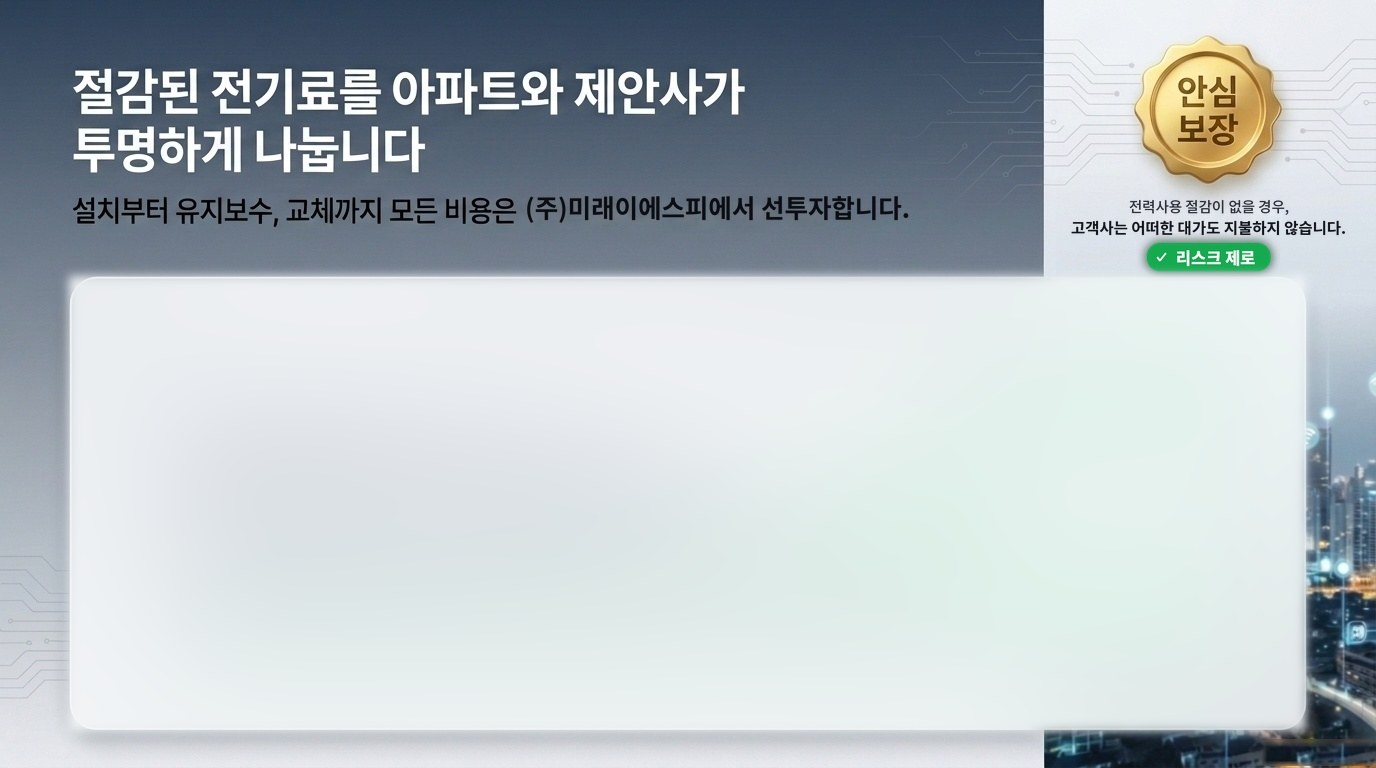
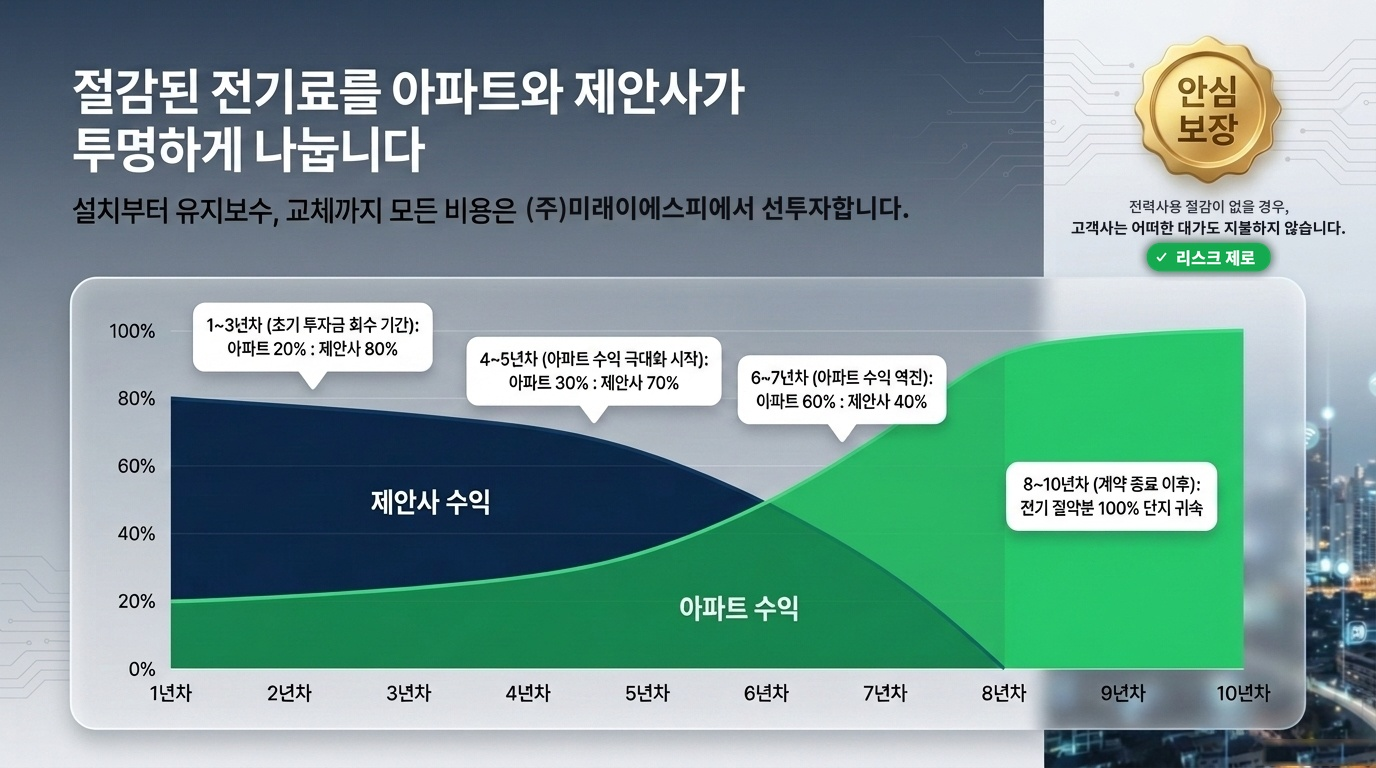
M-Carbon LED

diff --git a/server/excel.js b/server/excel.js
@@ -1,117 +1,62 @@
-// 절감 산출 엑셀 생성 (INPUT_DATA.xlsx 와 같은 배치, 수식 포함)
+// 절감 산출 엑셀 생성
+// 보내주신 INPUT_DATA.xlsx 원본을 그대로 열어 입력칸 값만 바꿉니다.
+// 배치·서식·문구·수식은 원본과 동일합니다. (운전일수·요금 상승률·교체주기는 원본 수식 속 숫자로 들어갑니다)
+const path = require("path");
 const ExcelJS = require("exceljs");
 const { compute } = require("../public/calc.js");
+
+const TEMPLATE = path.join(__dirname, "assets", "INPUT_DATA.xlsx");
+const num = (n) => String(+Number(n).toFixed(10)); // 수식에 넣을 숫자 표기
 
 async function buildExcel(v) {
   const r = compute(v);
   const wb = new ExcelJS.Workbook();
-  wb.creator = v.author || "M-Carbon";
-  wb.calcProperties.fullCalcOnLoad = true;
-  const ws = wb.addWorksheet("절감산출");
-  const widths = { A: 31.9, B: 26.1, C: 2.1, D: 2, E: 8.9, F: 14, G: 7, H: 7, I: 14.9, J: 13.9, K: 4, L: 11.8, M: 16 };
-  Object.entries(widths).forEach(([k, w]) => (ws.getColumn(k).width = w));
-  const YEL = "FFFFFF00", ORG = "FFFFC000", GRN = "FFE2EFDA", GRY = "FFF2F2F2", BLU = "FFDDEBF7", GRN2 = "FF92D050";
-  const NF = "#,##0", P = "0%";
-  const thin = { style: "thin", color: { argb: "FFBFBFBF" } }, border = { top: thin, left: thin, bottom: thin, right: thin };
-  const mk = (sheet) => (addr, val, o = {}) => {
-    const c = sheet.getCell(addr);
-    c.value = o.f !== undefined ? { formula: o.f, result: val } : val;
-    if (o.nf) c.numFmt = o.nf;
-    if (o.fill) c.fill = { type: "pattern", pattern: "solid", fgColor: { argb: o.fill } };
-    if (o.b) c.font = { bold: true, size: o.sz || 11 };
-    if (o.al) c.alignment = { horizontal: o.al, vertical: "middle" };
-    if (o.br !== false) c.border = border;
-    return c;
-  };
-  const put = mk(ws);
+  await wb.xlsx.readFile(TEMPLATE);
+  wb.calcProperties.fullCalcOnLoad = true; // 엑셀에서 열 때 다시 계산
+  const ws = wb.worksheets[0];
+  const val = (a, x) => { ws.getCell(a).value = x; };
+  const fx = (a, formula, result) => { ws.getCell(a).value = result === undefined ? { formula } : { formula, result }; };
 
-  put("A1", "전기사용량 비교", { b: true, br: false });
-  put("A2", "고객명", { fill: YEL }); put("B2", v.site, { fill: YEL });
-  put("A3", "소비전력[W]", { fill: YEL }); put("B3", v.w, { fill: YEL });
-  put("A4", "일일점등시간[시간]", { fill: YEL }); put("B4", v.hrs, { fill: YEL });
-  put("A5", "LED 등수", { fill: YEL }); put("B5", v.qty, { fill: YEL, nf: NF });
-  put("A6", "일 사용량[KW]"); put("B6", r.dayKw, { f: "B3*B4*B5/1000", nf: "#,##0.00" });
-  put("A7", "년간 전력사용량 [kWh]"); put("B7", r.useYr, { f: "B6*B10", nf: NF });
-  put("A8", "전기요금[원/KW]", { fill: YEL }); put("B8", v.price, { fill: YEL, nf: NF });
-  put("A9", "현재 기준 년간 전기요금", { fill: BLU }); put("B9", r.costYr, { f: "B7*B8", nf: NF, fill: BLU });
-  put("A10", "연간 운전일수[일]", { fill: YEL }); put("B10", v.days, { fill: YEL });
-  put("A11", "전기요금 연 상승률", { fill: YEL }); put("B11", v.esc / 100, { fill: YEL, nf: P });
-  put("A12", "절감율 산출", { fill: ORG, b: true }); put("B12", "", { fill: ORG });
-  put("A13", "현재 등 효율 [lm/W]", { fill: YEL }); put("B13", v.effOld, { fill: YEL });
-  put("A14", "M-Carbon 등 효율 [lm/W]", { fill: YEL }); put("B14", v.effNew, { fill: YEL });
-  put("A15", "Smart IoT추가 절감효율 [%]", { fill: ORG }); put("B15", v.iot / 100, { fill: ORG, nf: P });
-  put("A17", "에너지 Saving Ratio"); put("B17", r.ratio, { f: "(B14/B13)-1+B15", nf: "0.0%" });
-  put("A18", "연간 절감 전력 [kWh]"); put("B18", r.saveKwh, { f: "B7*B17", nf: NF });
-  put("A19", "연간 절감 요금 [원]", { fill: BLU }); put("B19", r.saveWon, { f: "B9*B17", nf: NF, fill: BLU });
-  put("A21", "추가시설비 단가", { fill: YEL }); put("B21", v.fac, { fill: YEL, nf: NF });
-  put("A22", "회수/10년 기준", { fill: YEL }); put("B22", v.facK, { fill: YEL, nf: NF });
-  put("A23", "투자비_LED단가적용(제품,시설 및 기타)"); put("B23", r.inv, { f: "B21*B5*B22", nf: NF, fill: GRN2 });
-  put("A25", "년차별 절감 예상", { b: true });
-  put("B25", `${v.esc}% 전기요금 상승 기준`, { f: 'TEXT(B11,"0%")&" 전기요금 상승 기준"' });
+  // ---- 입력칸 (원본 노란 칸 등) ----
+  val("B2", v.site);
+  val("B3", v.w);
+  val("B4", v.hrs);
+  val("B5", v.qty);
+  val("B8", v.price);
+  val("B13", v.effOld);
+  val("B14", v.effNew);
+  val("B15", v.iot / 100);
+  val("B21", v.fac);
+  val("B22", v.facK);
+  val("B41", v.ledP);
+  r.years.forEach((y, i) => val("H" + (4 + i), y.share));
+
+  // ---- 원본 수식 (값은 미리 계산해 넣어 미리보기에서도 보이게) ----
+  const g = 1 + v.esc / 100;
+  fx("B6", "B3*B4*B5/1000", r.dayKw);
+  fx("B7", `B6*${num(v.days)}`, r.useYr);
+  fx("B9", "B7*B8", r.costYr);
+  fx("B17", "(B14/B13)-1+B15", r.ratio);
+  fx("B18", "R4");                       // 원본 그대로 (R4는 빈 칸)
+  fx("B19", "B9*B17", r.saveWon);
+  fx("B23", "B21*B5*B22", r.inv);
+  val("B25", `${num(v.esc)}% 전기용금 상승 기준`);
   r.years.forEach((y, i) => {
     const row = 27 + i;
-    put("A" + row, y.y, { al: "center" });
-    put("B" + row, y.save, { f: i === 0 ? "B19" : `B${row - 1}*(1+$B$11)`, nf: NF });
+    fx("B" + row, i === 0 ? "B19" : `B${row - 1}*${num(g)}`, y.save);
   });
-  put("A39", "기존 조명 교체주기[년]", { fill: YEL }); put("B39", v.cyc, { fill: YEL });
-  put("A40", "제품 교체비용[매3년] 교체횟수"); put("B40", r.repN, { f: "ROUNDDOWN(8/B39,0)" });
-  put("A41", "led평균단가(제품+시설)", { fill: YEL }); put("B41", v.ledP, { fill: YEL, nf: NF });
-  put("A42", "건물주 추가투자비용 절감액"); put("B42", r.rep, { f: "B41*B40*B5", nf: NF });
-
-  put("E1", "성과공유", { b: true, br: false });
-  ws.mergeCells("F2:F3"); ws.mergeCells("G2:H2"); ws.mergeCells("I2:J2");
-  put("E2", "년", { fill: GRN, b: true, al: "center" }); put("F2", "운영수익", { fill: GRN, b: true, al: "center" });
-  put("G2", "비율정의", { fill: GRY, b: true, al: "center" }); put("I2", "수익", { fill: GRN, b: true, al: "center" });
-  put("E3", "수익자", { fill: GRN, al: "center" }); put("G3", "운영사", { fill: GRY, al: "center" }); put("H3", "건물", { fill: GRY, al: "center" });
-  put("I3", "운영사", { fill: GRN, al: "center" }); put("J3", "건물", { fill: GRN, al: "center" });
+  fx("B40", `ROUNDDOWN((8/${num(v.cyc)}),0)`, r.repN);
+  fx("B42", "B41*B40*B5", r.rep);
   r.years.forEach((y, i) => {
     const row = 4 + i;
-    put("E" + row, y.y, { al: "center" });
-    put("F" + row, y.save, { f: "B" + (27 + i), nf: NF });
-    put("G" + row, 1 - y.share, { f: `1-H${row}`, nf: P, fill: GRY });
-    put("H" + row, y.share, { nf: P, fill: YEL });
-    put("I" + row, y.op, { f: `$F${row}*G${row}`, nf: NF });
-    put("J" + row, y.apt, { f: `$F${row}*H${row}`, nf: NF });
+    fx("F" + row, "B" + (27 + i), y.save);
+    fx("G" + row, `1-H${row}`, 1 - y.share);
+    fx("I" + row, `$F${row}*G${row}`, y.op);
+    fx("J" + row, `$F${row}*H${row}`, y.apt);
   });
-  ws.mergeCells("E14:I14"); put("E14", "건물주 추가투지비용 절감액"); put("J14", r.rep, { f: "B42", nf: NF });
-  ws.mergeCells("E15:H15"); put("E15", "총계", { b: true, al: "center" });
-  put("I15", r.opTot, { f: "SUM(I4:I13)", nf: NF, b: true }); put("J15", r.netTot, { f: "SUM(J4:J14)", nf: NF, b: true });
-  put("L2", "", { fill: YEL }); put("M2", "input information", { br: false });
-  put("L3", "", { fill: ORG }); put("M3", "Calculated", { br: false });
-  put("E18", "작성일", { fill: GRY }); ws.mergeCells("F18:G18"); put("F18", v.date);
-  put("E19", "작성자", { fill: GRY }); ws.mergeCells("F19:G19"); put("F19", v.author);
-  put("E20", "수신", { fill: GRY }); ws.mergeCells("F20:J20"); put("F20", `${v.site} ${v.to}`.trim());
-
-  const s2 = wb.addWorksheet("10년 시뮬레이션");
-  [30, 18, 12, 18, 18, 18].forEach((w, i) => (s2.getColumn(i + 1).width = w));
-  const p2 = mk(s2), S = "'절감산출'!";
-  s2.mergeCells("A1:F1"); p2("A1", `${v.site} 10년 누적 절감 시뮬레이션`, { b: true, sz: 14, br: false });
-  ["년차", "전기요금 절감액", "아파트 비율", "아파트 수익", "제안사 수익", "아파트 누적"].forEach((h, i) =>
-    p2(String.fromCharCode(65 + i) + "3", h, { b: true, fill: GRN, al: "center" }));
-  r.years.forEach((y, i) => {
-    const row = 4 + i;
-    p2("A" + row, y.y, { al: "center" }); p2("B" + row, y.save, { f: S + "F" + row, nf: NF });
-    p2("C" + row, y.share, { f: S + "H" + row, nf: P });
-    p2("D" + row, y.apt, { f: S + "J" + row, nf: NF }); p2("E" + row, y.op, { f: S + "I" + row, nf: NF });
-    p2("F" + row, y.acc, { f: i === 0 ? "D4" : `F${row - 1}+D${row}`, nf: NF });
-  });
-  p2("A14", "합계", { b: true, al: "center" }); p2("B14", r.saveTot, { f: "SUM(B4:B13)", nf: NF, b: true }); p2("C14", "");
-  p2("D14", r.aptTot, { f: "SUM(D4:D13)", nf: NF, b: true }); p2("E14", r.opTot, { f: "SUM(E4:E13)", nf: NF, b: true }); p2("F14", "");
-  const kv = [
-    ["건물주 추가투자비용 절감액", r.rep, { f: S + "J14", nf: NF }],
-    ["아파트 10년 누적 순수익", r.netTot, { f: "D14+B16", nf: NF, b: true, fill: GRN }],
-    null,
-    ["연간 전력 절감량 [kWh]", r.saveKwh, { f: S + "B18", nf: NF }],
-    ["전력 배출계수 [kgCO2/kWh]", v.ef, { fill: YEL, nf: "0.0000" }],
-    ["연간 CO2 감축량 [tCO2]", r.co2, { f: "B19*B20/1000", nf: "#,##0.0" }],
-    ["10년 누적 CO2 감축량 [tCO2]", r.co2 * 10, { f: "B21*10", nf: "#,##0.0", b: true }],
-    ["소나무 1그루 연간 흡수량 [kg]", v.tree, { fill: YEL }],
-    ["30년생 소나무 환산 [그루]", r.trees, { f: "IF(B23>0,B21*1000/B23,0)", nf: NF }],
-    ["소나무 숲 1ha 연간 흡수량 [t]", v.forest, { fill: YEL }],
-    ["소나무 숲 면적 [ha]", r.ha, { f: "IF(B25>0,B21/B25,0)", nf: "0.00" }],
-    ["축구장 환산 [개] (1개=0.714ha)", r.pitch, { f: "B26/0.714", nf: "0.0" }],
-  ];
-  kv.forEach((e, i) => { if (!e) return; const row = 16 + i; p2("A" + row, e[0], { fill: e[2].fill === GRN ? GRN : undefined }); p2("B" + row, e[1], e[2]); });
+  fx("J14", "B42", r.rep);
+  fx("I15", "SUM(I4:I13)", r.opTot);
+  fx("J15", "SUM(J4:J14)", r.netTot);
 
   return Buffer.from(await wb.xlsx.writeBuffer());
 }

diff --git a/server/pptx.js b/server/pptx.js
@@ -22,15 +22,6 @@ function fit(text, maxW_px, maxPt, minPt = 10) {
   const pt = (maxW_px * PX * 72) / (em || 1);
   return Math.max(minPt, Math.min(maxPt, Math.floor(pt * 0.98)));
 }
-function groupShares(r) {
-  const g = [];
-  r.years.forEach((y) => {
-    const k = Math.round(y.share * 1000), L = g[g.length - 1];
-    if (L && L.k === k) L.b = y.y; else g.push({ k, a: y.y, b: y.y, share: y.share });
-  });
-  return g;
-}
-
 async function buildPptx(v) {
   const r = compute(v);
   const site = v.site;
@@ -51,28 +42,9 @@ async function buildPptx(v) {
   T(s, rc, { x: px(560), y: px(588), w: px(660), h: px(44), fontSize: fit(rc, 660, 15, 10), bold: true, color: "1B2740", align: "right" });
   ["s02", "s03", "s04"].forEach(bgSlide);
 
-  // 5. 성과공유
-  s = bgSlide("s05");
-  const groups = groupShares(r);
-  const n = groups.length, gx0 = 95, gx1 = 1285, gw = (gx1 - gx0) / n;
-  groups.forEach((g, i) => {
-    const yrs = g.a === g.b ? `${g.a}년차` : `${g.a}~${g.b}년차`;
-    const body = g.share >= 1 ? `${yrs} (계약 종료 이후)\n전기 절약분 100% 단지 귀속`
-      : `${yrs}\n아파트 ${Math.round(g.share * 100)}% : 제안사 ${Math.round((1 - g.share) * 100)}%`;
-    s.addShape(pptx.ShapeType.roundRect, { x: px(gx0 + i * gw + 6), y: px(292), w: px(gw - 12), h: px(58), rectRadius: 0.08,
-      fill: { color: g.share >= 1 ? "E8F8EE" : "FFFFFF" }, line: { color: g.share >= 1 ? "22C55E" : "C9D3DD", width: 1 },
-      shadow: { type: "outer", blur: 4, offset: 1, angle: 90, color: "000000", opacity: 0.12 } });
-    T(s, body, { x: px(gx0 + i * gw + 10), y: px(294), w: px(gw - 20), h: px(54), fontSize: n > 5 ? 9 : 11, color: "1B2740", align: "center", lineSpacingMultiple: 1.05 });
-  });
+  // 5. 성과공유 — 원본 슬라이드 그대로
+  bgSlide("s05");
   const labels = r.years.map((y) => y.y + "년차");
-  s.addChart(pptx.ChartType.bar, [
-    { name: "아파트 수익", labels, values: r.years.map((y) => Math.round(y.share * 100)) },
-    { name: "제안사 수익", labels, values: r.years.map((y) => 100 - Math.round(y.share * 100)) }],
-    { x: px(85), y: px(358), w: px(1205), h: px(365), barDir: "col", barGrouping: "percentStacked", barGapWidthPct: 45,
-      chartColors: ["22C55E", "10264A"], showValue: true, dataLabelFormatCode: '0"%";;', dataLabelColor: "FFFFFF", dataLabelFontSize: 11, dataLabelFontBold: true, dataLabelFontFace: FONT,
-      catAxisLabelColor: "1B2740", catAxisLabelFontSize: 11, catAxisLabelFontFace: FONT, valAxisLabelFontSize: 10, valAxisLabelColor: "5D6E78",
-      valAxisLabelFormatCode: "0%", valGridLine: { color: "DDE3E8", size: 0.5 }, catGridLine: { style: "none" },
-      showLegend: true, legendPos: "t", legendFontSize: 11, legendFontFace: FONT, legendColor: "1B2740" });
 
   // 6. 10년 누적 절감 시뮬레이션
   s = bgSlide("s06");
@@ -93,12 +65,19 @@ async function buildPptx(v) {
       showValue: true, dataLabelFormatCode: '"약 "#,##0"만 원"', dataLabelColor: "FFFFFF", dataLabelFontSize: 8.5, dataLabelFontBold: true, dataLabelFontFace: FONT, dataLabelPosition: "outEnd",
       catAxisLabelColor: "FFFFFF", catAxisLabelFontSize: 11, catAxisLabelFontFace: FONT, catAxisLineShow: true, catAxisLineColor: "5B6B66",
       valAxisHidden: true, valGridLine: { style: "none" }, catGridLine: { style: "none" }, showLegend: false });
+  // 원본 표기 방식: 전력 절감량은 천 kWh 단위 반올림, CO₂는 소수 첫째 자리, 소나무는 10그루 단위
+  const kwhR = Math.round(r.saveKwh / 1000) * 1000;
+  const co2R = Math.round(r.co2 * 10) / 10;
+  const treesR = v.tree > 0 ? Math.floor(co2R * 1000 / v.tree / 10) * 10 : 0;
+  const haR = v.forest > 0 ? Math.round(co2R / v.forest * 10) / 10 : 0;
+  const pitchR = Math.round(haR * 1.3 * 10) / 10;   // 원본: 1ha ≈ 축구장 1.3개
+  const nf = (n) => n.toLocaleString("ko-KR", { maximumFractionDigits: 1 });
   const X0 = 922, W0 = 410;
   s.addShape(pptx.ShapeType.roundRect, { x: px(X0), y: px(192), w: px(W0), h: px(512), rectRadius: 0.15, fill: { color: "0B1A14", transparency: 30 }, line: { color: "3DDC84", width: 1.5, transparency: 20 } });
   s.addShape(pptx.ShapeType.ellipse, { x: px(X0 + 22), y: px(210), w: px(30), h: px(30), fill: { color: "3DDC84" }, line: { type: "none" } });
   T(s, "CO₂", { x: px(X0 + 22), y: px(210), w: px(30), h: px(30), fontSize: 7, bold: true, color: "0B1A14", align: "center" });
   T(s, "탄소배출 절감 효과", { x: px(X0 + 62), y: px(208), w: px(320), h: px(34), fontSize: 16, bold: true, color: "FFFFFF" });
-  T(s, `전력 절감 → 온실가스 감축 환산 (연간 약 ${f0(r.saveKwh)}kWh 절감 기준)`, { x: px(X0 + 20), y: px(244), w: px(W0 - 40), h: px(18), fontSize: 7.5, color: "A9B8B1" });
+  T(s, `전력 절감 → 온실가스 감축 환산 (연간 약 ${f0(kwhR)}kWh 절감 기준)`, { x: px(X0 + 20), y: px(244), w: px(W0 - 40), h: px(18), fontSize: 7.5, color: "A9B8B1" });
   const rowBox = (y, h, label, val, unit, hi) => {
     s.addShape(pptx.ShapeType.roundRect, { x: px(X0 + 18), y: px(y), w: px(W0 - 36), h: px(h), rectRadius: 0.1,
       fill: { color: hi ? "0F3A26" : "FFFFFF", transparency: hi ? 10 : 92 }, line: { color: hi ? "3DDC84" : "FFFFFF", transparency: hi ? 0 : 80, width: hi ? 1.5 : 0.75 } });
@@ -112,21 +91,20 @@ async function buildPptx(v) {
         { x: px(X0 + 170), y: px(y), w: px(W0 - 206), h: px(h), fontFace: FONT, color: "FFFFFF", align: "right", valign: "middle", margin: 0 });
     }
   };
-  rowBox(270, 52, "연간 전력 절감량", f0(r.saveKwh), "kWh");
-  rowBox(330, 52, "연간 CO₂ 감축량", f1(r.co2), "tCO₂");
-  rowBox(392, 78, "10년 누적 CO₂ 감축량", f0(r.co2 * 10), "tCO₂", true);
+  rowBox(270, 52, "연간 전력 절감량", f0(kwhR), "kWh");
+  rowBox(330, 52, "연간 CO₂ 감축량", f1(co2R), "tCO₂");
+  rowBox(392, 78, "10년 누적 CO₂ 감축량", nf(co2R * 10), "tCO₂", true);
   T(s, "나무심기 환산 효과", { x: px(X0 + 22), y: px(480), w: px(300), h: px(22), fontSize: 11, bold: true, color: "FFFFFF" });
   for (let i = 0; i < 9; i++) {
     const tx = X0 + 30 + i * 39.5;
     s.addShape(pptx.ShapeType.triangle, { x: px(tx), y: px(507), w: px(32), h: px(30), fill: { color: "2FBF6A" }, line: { type: "none" } });
     s.addShape(pptx.ShapeType.rect, { x: px(tx + 13), y: px(537), w: px(6), h: px(8), fill: { color: "7A5A3A" }, line: { type: "none" } });
   }
-  T(s, `30년생 소나무 약 ${f0(r.trees)}그루`, { x: px(X0), y: px(552), w: px(W0), h: px(32), fontSize: 18, bold: true, color: "3DDC84", align: "center" });
+  T(s, `30년생 소나무 약 ${f0(treesR)}그루`, { x: px(X0), y: px(552), w: px(W0), h: px(32), fontSize: 18, bold: true, color: "3DDC84", align: "center" });
   T(s, "가 1년 동안 흡수하는 CO₂를 매년 줄이는 효과", { x: px(X0), y: px(584), w: px(W0), h: px(18), fontSize: 9, color: "C9D6CF", align: "center" });
   s.addShape(pptx.ShapeType.line, { x: px(X0 + 30), y: px(608), w: px(W0 - 60), h: 0, line: { color: "FFFFFF", transparency: 75, width: 0.75 } });
-  const haTxt = r.ha >= 10 ? f0(r.ha) : r.ha >= 1 ? f1(r.ha).replace(/\.0$/, "") : r.ha.toFixed(2);
-  T(s, `= 소나무 숲 약 ${haTxt}ha (축구장 약 ${f1(r.pitch).replace(/\.0$/, "")}개) 조성 효과`, { x: px(X0), y: px(614), w: px(W0), h: px(24), fontSize: 11, bold: true, color: "FFFFFF", align: "center" });
-  T(s, `* 산출 기준: 국가 전력 배출계수 ${v.ef} kgCO₂/kWh,\n  30년생 소나무 1그루 연 ${v.tree}kg CO₂ 흡수(국립산림과학원), 소나무 숲 1ha 연 ${v.forest}t`,
+  T(s, `= 소나무 숲 약 ${nf(haR)}ha (축구장 약 ${nf(pitchR)}개) 조성 효과`, { x: px(X0), y: px(614), w: px(W0), h: px(24), fontSize: 11, bold: true, color: "FFFFFF", align: "center" });
+  T(s, `* 산출 기준: 국가 전력 배출계수 ${v.ef} tCO₂eq/MWh,\n  30년생 소나무 1그루 연 ${v.tree}kg CO₂ 흡수(국립산림과학원), 소나무 숲 1ha 연 ${v.forest}t`,
     { x: px(X0 + 22), y: px(645), w: px(W0 - 40), h: px(46), fontSize: 7, color: "A9B8B1", valign: "top" });
   T(s, "*상기 시뮬레이션은 제안 단가의 기준치를 적용한 예시이며, 실제 전력사용량 및 현장 상황에 따라 1원 단위로 투명하게 정산됩니다.*",
     { x: px(0), y: px(718), w: px(1376), h: px(30), fontSize: 10.5, color: "A9B3B0", align: "center" });
@@ -134,7 +112,7 @@ async function buildPptx(v) {
   ["s07", "s08", "s09"].forEach(bgSlide);
   // 10. 무상 양도
   s = bgSlide("s10");
-  T(s, `${r.contract}년 계약 종료 시, 어떠한 추가 비용 요구나 철거 없이 설치된 최첨단 IoT LED 조명 자산 일체를 ${site}에 100% 무상 양도합니다.`,
+  T(s, `7년 계약 종료 시, 어떠한 추가 비용 요구나 철거 없이 설치된 최첨단 IoT LED 조명 자산 일체를 ${site}에 100% 무상 양도합니다.`,
     { x: px(842), y: px(208), w: px(420), h: px(90), fontSize: 11, color: "1F2937", valign: "top", lineSpacingMultiple: 1.2 });
   bgSlide("s11");
   // 12. 마무리

diff --git a/public/style.css b/public/style.css
@@ -236,3 +236,16 @@ table.list td small{display:block;color:var(--muted);font-size:11px}
 .st.disabled{background:var(--field);color:var(--muted)}
 .empty{color:var(--muted);text-align:center;padding:24px;margin:0}
 @media (max-width:520px){.tabpane{padding:18px 16px}.nav{padding:8px 10px}.nav .who{width:100%;justify-content:flex-end}}
+
+/* 다크 모드: 진한 초록 글자를 밝게 (가독성) */
+@media (prefers-color-scheme: dark){
+  :root:not([data-theme="light"]) .c10 .v,
+  :root:not([data-theme="light"]) .gauge .pct,
+  :root:not([data-theme="light"]) tr.after td,
+  :root:not([data-theme="light"]) .st.active,
+  :root:not([data-theme="light"]) .msg.ok,
+  :root:not([data-theme="light"]) .nav > button[aria-current="page"]{color:var(--leaf)}
+  :root:not([data-theme="light"]) .rgrid .c10{background:color-mix(in srgb,var(--leaf) 8%,var(--sheet))}
+}
+:root[data-theme="dark"] .c10 .v,:root[data-theme="dark"] .gauge .pct,:root[data-theme="dark"] tr.after td,
+:root[data-theme="dark"] .st.active,:root[data-theme="dark"] .msg.ok,:root[data-theme="dark"] .nav > button[aria-current="page"]{color:var(--leaf)}

diff --git a/public/calc.js b/public/calc.js
@@ -4,7 +4,7 @@
   if (typeof module === "object" && module.exports) module.exports = factory();
   else root.LEDCalc = factory();
 })(typeof self !== "undefined" ? self : this, function () {
-  const PITCH_HA = 0.714; // 축구장 1개 (105m × 68m)
+  const PITCH_PER_HA = 1.3; // 원본 제안서 기준: 1ha ≈ 축구장 1.3개
 
   const DEFAULTS = {
     site: "고양호수마을 1단지", to: "입주자대표회의", date: "", author: "",
@@ -64,7 +64,7 @@
     r.co2 = r.saveKwh * v.ef / 1000;
     r.trees = v.tree > 0 ? r.co2 * 1000 / v.tree : 0;
     r.ha = v.forest > 0 ? r.co2 / v.forest : 0;
-    r.pitch = r.ha / PITCH_HA;
+    r.pitch = r.ha * PITCH_PER_HA;
     return r;
   }
 
@@ -80,5 +80,5 @@
   const f1 = (n) => n.toLocaleString("ko-KR", { minimumFractionDigits: 1, maximumFractionDigits: 1 });
   const man = (n) => Math.round(n / 1e4).toLocaleString("ko-KR");
 
-  return { DEFAULTS, NUM_KEYS, PITCH_HA, normalize, compute, josa, f0, f1, man };
+  return { DEFAULTS, NUM_KEYS, PITCH_PER_HA, normalize, compute, josa, f0, f1, man };
 });

diff --git a/public/index.html b/public/index.html
@@ -178,7 +178,7 @@
         <li>Saving Ratio = (M-Carbon 등 효율 ÷ 현재 등 효율) − 1 + Smart IoT 추가 절감율 · 연간 절감 요금 = 현재 연간 전기요금 × Saving Ratio (INPUT_DATA 엑셀과 동일한 식)</li>
         <li>2년차부터 전기요금이 매년 입력한 상승률만큼 오른다고 보고 계산하며, 년차별 절감액에 아파트 비율을 곱해 아파트 수익을 구합니다.</li>
         <li>건물주 추가투자비용 절감액 = LED 평균단가 × 교체횟수(8년 ÷ 교체주기, 소수점 버림) × 등수. 아파트 10년 누적 순수익에 합산됩니다.</li>
-        <li>CO₂ = 연간 절감 전력 × 배출계수 · 소나무 = CO₂ ÷ 1그루 연간 흡수량 · 숲 면적 = CO₂ ÷ 1ha 흡수량 (축구장 1개 = 0.714ha)</li>
+        <li>CO₂ = 연간 절감 전력 × 배출계수 · 소나무 = CO₂ ÷ 1그루 연간 흡수량 · 숲 면적 = CO₂ ÷ 1ha 흡수량 (1ha ≈ 축구장 1.3개)</li>
       </ul>
     </section>
   </main>
